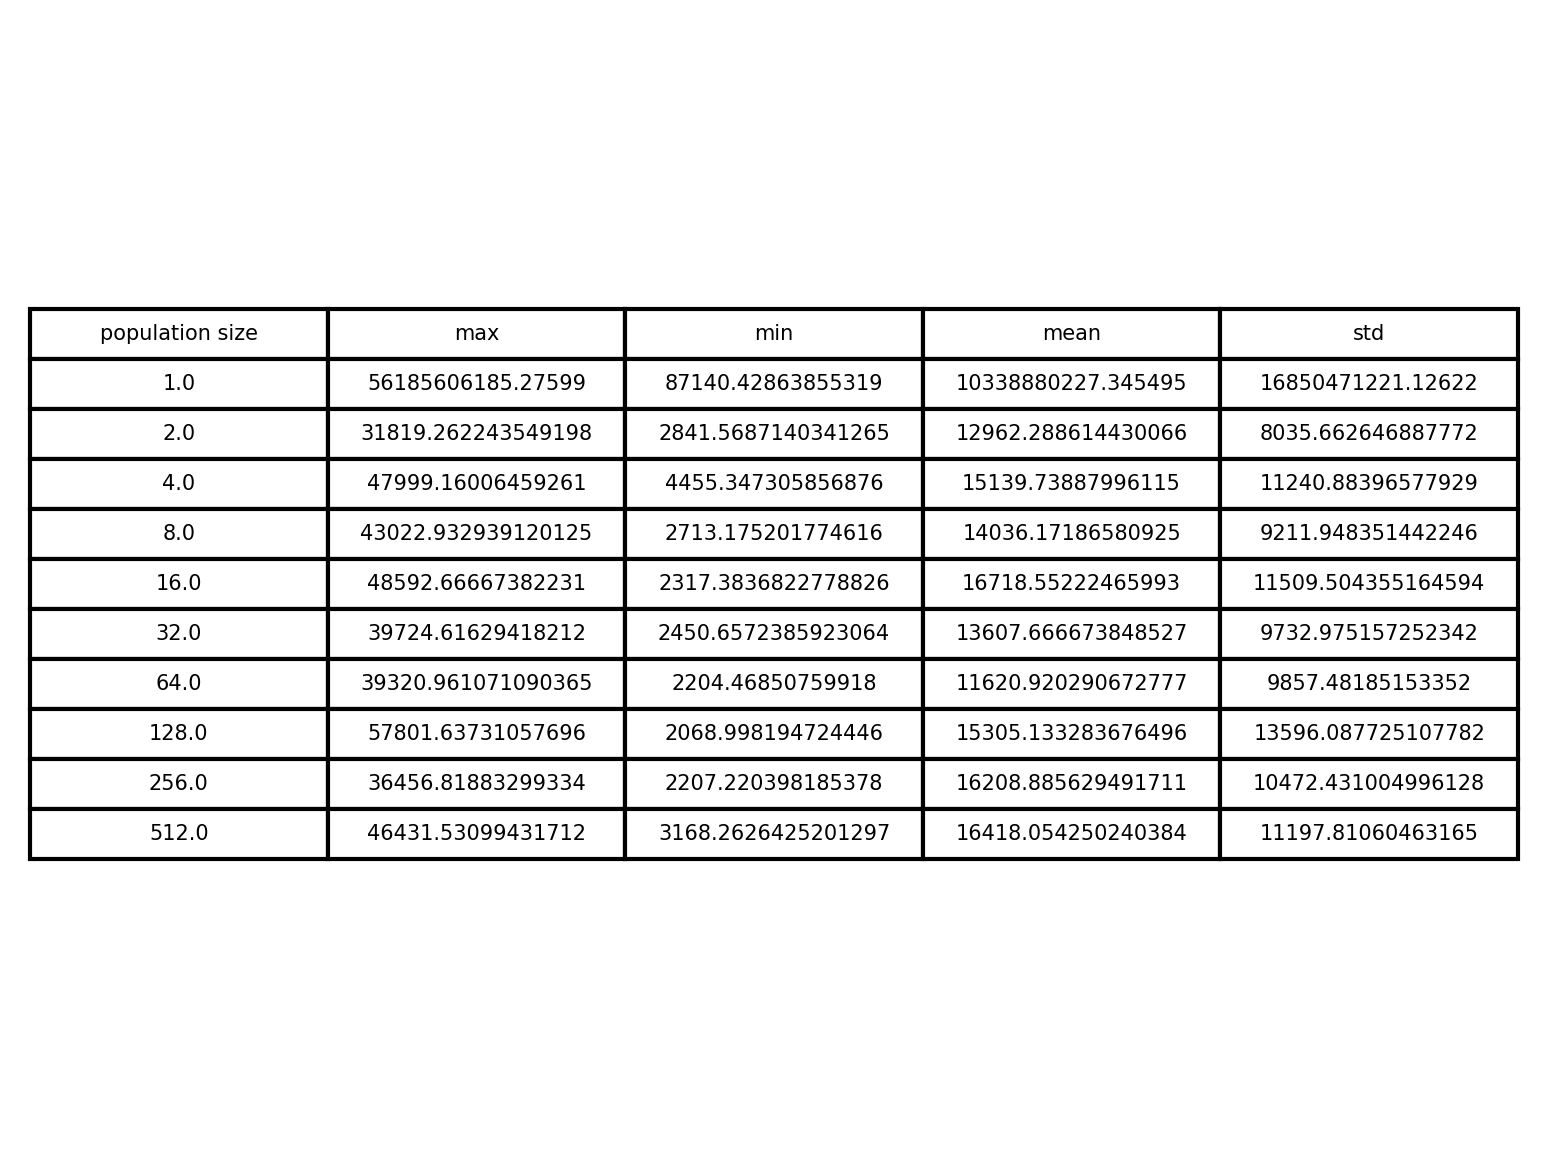
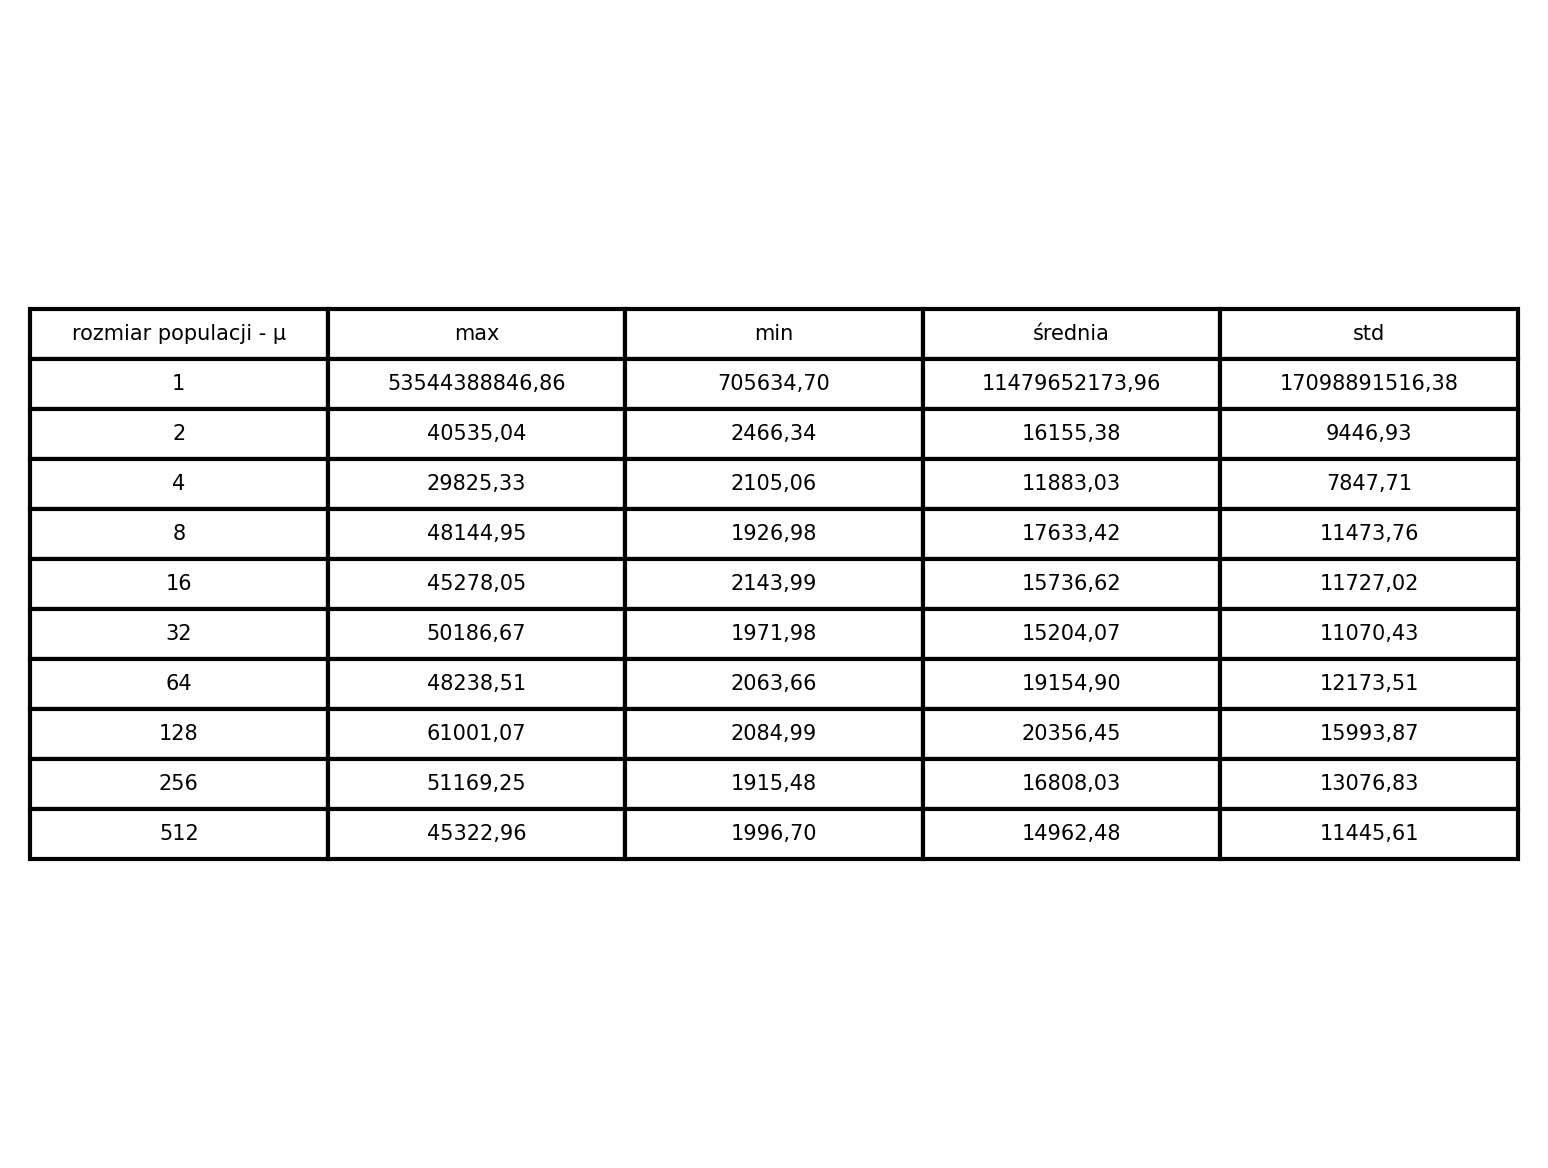
implemented evolutionary algorithm using numpy

diff --git a/zadanie2/main.py b/zadanie2/main.py
@@ -4,11 +4,12 @@ import pandas as pd
 from typing import List
 import numpy as np
 import matplotlib.pyplot as plt
+from concurrent.futures import ProcessPoolExecutor
 
 
-FES = 10000
+FES = 50000
 FUNCTION = f13
-POPULATION_SIZE = 20
+POPULATION_SIZE = 4
 MUTATION_POWER = 1
 POPULATION_SET = [2**n for n in range(10)]
 
@@ -27,45 +28,82 @@ def main():
     print(result_dict.get(min_value))
 
 
+def run_evolutionary_algorithm(args):
+    population_size, mutation_power, fes = args
+    _, value = evolutionary_algorithm(FUNCTION, population_size, mutation_power, fes)
+    return value
+
+
 def generate_data():
-    data_1 = {"population size": [], "max": [], "min": [], "mean": [], "std": []}
-    data_2 = {"mutation power": [], "max": [], "min": [], "mean": [], "std": []}
-    for i in POPULATION_SET:
-        values = []
-        for _ in range(25):
-            _, value = evolutionary_algorithm(FUNCTION, i, MUTATION_POWER, FES)
-            values.append(value)
-        data_1["population size"].append(i)
-        data_1["max"].append(max(values))
-        data_1["min"].append(min(values))
-        data_1["mean"].append(np.mean(values))
-        data_1["std"].append(np.std(values))
-    for i in range(1, 40):
-        values = []
-        for _ in range(25):
-            _, value = evolutionary_algorithm(FUNCTION, POPULATION_SIZE, i / 10, FES)
-            values.append(value)
-        data_2["mutation power"].append(i / 10)
-        data_2["max"].append(max(values))
-        data_2["min"].append(min(values))
-        data_2["mean"].append(np.mean(values))
-        data_2["std"].append(np.std(values))
-    df_1 = pd.DataFrame(data_1)
-    df_1["population size"] = df_1["population size"].astype(int)
-    name_1 = f"population_{FUNCTION.__name__}.csv"
-    df_1.to_csv(name_1, index=False)
+    # data_1 = {
+    #     "rozmiar populacji - μ": [],
+    #     "max": [],
+    #     "min": [],
+    #     "średnia": [],
+    #     "std": [],
+    # }
+    data_2 = {"siła mutacji - σ": [], "max": [], "min": [], "średnia": [], "std": []}
+    # data_3 = {
+    #     "rozmiar populacji - μ": [],
+    #     "siła mutacji - σ": [],
+    #     "max": [],
+    #     "min": [],
+    #     "mean": [],
+    #     "std": [],
+    # }
+    # with ProcessPoolExecutor() as executor:
+    #     for i in POPULATION_SET:
+    #         args = [(i, MUTATION_POWER, FES) for _ in range(100)]
+    #         values = list(executor.map(run_evolutionary_algorithm, args))
+    #         data_1["rozmiar populacji - μ"].append(i)
+    #         data_1["max"].append(max(values))
+    #         data_1["min"].append(min(values))
+    #         data_1["średnia"].append(np.mean(values))
+    #         data_1["std"].append(np.std(values))
+    with ProcessPoolExecutor(max_workers=4) as executor:
+        for i in range(31, 41):
+            mutation_power = i / 10
+            args = [(POPULATION_SIZE, mutation_power, FES) for _ in range(100)]
+            values = list(executor.map(run_evolutionary_algorithm, args))
+            data_2["siła mutacji - σ"].append(mutation_power)
+            data_2["max"].append(max(values))
+            data_2["min"].append(min(values))
+            data_2["średnia"].append(np.mean(values))
+            data_2["std"].append(np.std(values))
+    # with ProcessPoolExecutor() as executor:
+    #     for i in range(1, 40):
+    #         for j in POPULATION_SET:
+    #             mutation_power = i / 10
+    #             args = [(j, mutation_power, FES) for _ in range(25)]
+    #             values = list(executor.map(run_evolutionary_algorithm, args))
+    #             data_3["rozmiar populacji - μ"].append(j)
+    #             data_3["siła mutacji - σ"].append(mutation_power)
+    #             data_3["max"].append(max(values))
+    #             data_3["min"].append(min(values))
+    #             data_3["średnia"].append(np.mean(values))
+    #             data_3["std"].append(np.std(values))
+    # df_1 = pd.DataFrame(data_1)
+    # df_1["rozmiar populacji - μ"] = df_1["rozmiar populacji - μ"].astype(int)
+    # name_1 = f"population_{FUNCTION.__name__}.csv"
+    # df_1.to_csv(name_1, index=False)
+
     df_2 = pd.DataFrame(data_2)
-    df_2["mutation power"] = df_2["mutation power"].map(
+    df_2["siła mutacji - σ"] = df_2["siła mutacji - σ"].map(
         lambda x: f"{x:.1f}".replace(".", ",")
     )
     name_2 = f"mutation_power_{FUNCTION.__name__}.csv"
     df_2.to_csv(name_2, index=False)
 
+    # df_3 = pd.DataFrame(data_3)
+    # df_3.to_csv("combined.csv", index=False)
+
 
 def format_dataframe(df: pd.DataFrame, decimal_places: int = 2) -> pd.DataFrame:
     df["max"] = df["max"].map(lambda x: f"{x:.{decimal_places}f}".replace(".", ","))
     df["min"] = df["min"].map(lambda x: f"{x:.{decimal_places}f}".replace(".", ","))
-    df["mean"] = df["mean"].map(lambda x: f"{x:.{decimal_places}f}".replace(".", ","))
+    df["średnia"] = df["średnia"].map(
+        lambda x: f"{x:.{decimal_places}f}".replace(".", ",")
+    )
     df["std"] = df["std"].map(lambda x: f"{x:.{decimal_places}f}".replace(".", ","))
     return df
 
@@ -89,5 +127,7 @@ if __name__ == "__main__":
     generate_data()
     df_1 = pd.read_csv(f"population_{FUNCTION.__name__}.csv")
     df_2 = pd.read_csv(f"mutation_power_{FUNCTION.__name__}.csv")
-    create_table(f"population_{FUNCTION.__name__}", df_1)
+    # df_3 = pd.read_csv(f"combined.csv")
+    # create_table(f"population_{FUNCTION.__name__}", df_1)
     create_table(f"mutation_power_{FUNCTION.__name__}", df_2)
+    # create_table(f"combined", df_3)

diff --git a/zadanie2/cec2017/simple.py b/zadanie2/cec2017/simple.py
@@ -7,6 +7,7 @@ from . import transforms
 
 import numpy as np
 
+
 def f1(x, rotation=None, shift=None):
     """
     Shifted and Rotated Bent Cigar Function
@@ -26,6 +27,7 @@ def f1(x, rotation=None, shift=None):
     x_transformed = np.matmul(rotation, x - shift)
     return basic.bent_cigar(x_transformed) + 100.0
 
+
 def f2(x, rotation=None, shift=None):
     """
     (Deprecated) Shifted and Rotated Sum of Different Power Function
@@ -37,9 +39,9 @@ def f2(x, rotation=None, shift=None):
         shift (array): Optional shift vector. If None (default), the official
             vector from the benchmark suite will be used.
     """
-    if 'warned' not in f2.__dict__:
+    if "warned" not in f2.__dict__:
         f2.warned = True
-        print('WARNING: f2 has been deprecated from the CEC 2017 benchmark suite')
+        # print('WARNING: f2 has been deprecated from the CEC 2017 benchmark suite')
 
     nx = len(x)
     if rotation is None:
@@ -48,6 +50,7 @@ def f2(x, rotation=None, shift=None):
         shift = transforms.shifts[1][:nx]
     x_transformed = np.matmul(rotation, x - shift)
     return basic.sum_diff_pow(x_transformed) + 200.0
+
 
 def f3(x, rotation=None, shift=None):
     """
@@ -68,6 +71,7 @@ def f3(x, rotation=None, shift=None):
     x_transformed = np.matmul(rotation, x - shift)
     return basic.zakharov(x_transformed) + 300.0
 
+
 def f4(x, rotation=None, shift=None):
     """
     Shifted and Rotated Rosenbrock’s Function
@@ -86,6 +90,7 @@ def f4(x, rotation=None, shift=None):
         shift = transforms.shifts[3][:nx]
     x_transformed = np.matmul(rotation, (x - shift))
     return basic.rosenbrock(x_transformed) + 400.0
+
 
 def f5(x, rotation=None, shift=None):
     """
@@ -106,6 +111,7 @@ def f5(x, rotation=None, shift=None):
     x_transformed = np.matmul(rotation, (x - shift))
     return basic.rastrigin(x_transformed) + 500.0
 
+
 def f6(x, rotation=None, shift=None):
     """
     Shifted and Rotated Schaffer’s F7 Function
@@ -124,6 +130,7 @@ def f6(x, rotation=None, shift=None):
         shift = transforms.shifts[5][:nx]
     x_transformed = np.matmul(rotation, (x - shift))
     return basic.schaffers_f7(x_transformed) + 600.0
+
 
 def f7(x, rotation=None, shift=None):
     """
@@ -144,6 +151,7 @@ def f7(x, rotation=None, shift=None):
     # pass the shift and rotation directly to the function
     return basic.lunacek_bi_rastrigin(x, shift, rotation) + 700.0
 
+
 def f8(x, rotation=None, shift=None):
     """
     Shifted and Rotated Non-Continuous Rastrigin’s Function
@@ -162,6 +170,7 @@ def f8(x, rotation=None, shift=None):
         shift = transforms.shifts[7][:nx]
     # pass the shift and rotation directly to the function
     return basic.non_cont_rastrigin(x, shift, rotation) + 800.0
+
 
 def f9(x, rotation=None, shift=None):
     """
@@ -182,6 +191,7 @@ def f9(x, rotation=None, shift=None):
     x_transformed = np.matmul(rotation, (x - shift))
     return basic.levy(x_transformed) + 900.0
 
+
 def f10(x, rotation=None, shift=None):
     """
     Shifted and Rotated Schwefel’s Function
@@ -201,15 +211,5 @@ def f10(x, rotation=None, shift=None):
     x_transformed = np.matmul(rotation, (x - shift))
     return basic.modified_schwefel(x_transformed) + 1000.0
 
-all_functions = [
-    f1,
-    f2,
-    f3,
-    f4,
-    f5,
-    f6,
-    f7,
-    f8,
-    f9,
-    f10
-]
+
+all_functions = [f1, f2, f3, f4, f5, f6, f7, f8, f9, f10]

diff --git a/zadanie2/evolutionary_algorithm.py b/zadanie2/evolutionary_algorithm.py
@@ -25,33 +25,25 @@ def evolutionary_algorithm(function, population_size, mutation_power, fes):
 
 
 def generate_population(population_size):
-    return [
-        np.random.uniform(-LIMIT, LIMIT, DIMENSIONS) for _ in range(population_size)
-    ]
+    return np.random.uniform(-LIMIT, LIMIT, (population_size, DIMENSIONS))
 
 
 def reproduction(population, evaluation, population_size):
-    reproduction = []
     rng = np.random.default_rng()
-    for _ in range(population_size):
-        index_1 = rng.integers(0, population_size)
-        index_2 = rng.integers(0, population_size)
-        point_1 = population[index_1]
-        point_2 = population[index_2]
-        reproduction.append(
-            point_1 if evaluation[index_1] < evaluation[index_2] else point_2
-        )
-    return reproduction
+    indices = rng.integers(0, population_size, size=(population_size, 2))
+    selected = np.where(
+        evaluation[indices[:, 0]] < evaluation[indices[:, 1]],
+        indices[:, 0],
+        indices[:, 1],
+    )
+    return population[selected]
 
 
 def mutation(reproduction, mutation_power):
-    mutation = []
-    for point in reproduction:
-        temp = np.random.uniform(-1, 1, DIMENSIONS)
-        point = point - mutation_power * temp
-        point = np.clip(point, -LIMIT, LIMIT)
-        mutation.append(point)
-    return mutation
+    mutation = reproduction - mutation_power * np.random.uniform(
+        -1, 1, reproduction.shape
+    )
+    return np.clip(mutation, -LIMIT, LIMIT)
 
 
 def stop(counter, max_iter):
@@ -59,14 +51,9 @@ def stop(counter, max_iter):
 
 
 def get_eval(population, function):
-    return [function(point) for point in population]
+    return np.apply_along_axis(function, 1, population)
 
 
 def find_best(population, evaluation):
-    best_point = population[0]
-    best_eval = evaluation[0]
-    for point, score in zip(population, evaluation):
-        if score < best_eval:
-            best_eval = score
-            best_point = point
-    return best_point, best_eval
+    best_index = np.argmin(evaluation)
+    return population[best_index], evaluation[best_index]
